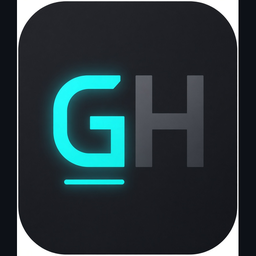
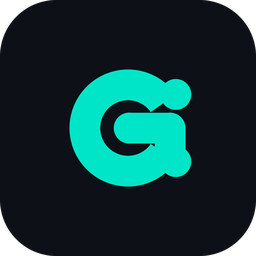
Rebuild brand assets as crisp geometric G mark.
Replace photographic AI lockups with real PNG/SVG: icon, favicon,
horizontal lockup, OG 1200×630, and 50:11 X banner.

diff --git a/website/index.html b/website/index.html
@@ -26,7 +26,8 @@
     <meta property="x:game:image:width" content="1200" />
     <meta property="x:game:image:height" content="264" />
     <meta name="theme-color" content="#0D1117" />
-    <link rel="icon" type="image/png" href="assets/favicon.png" />
+    <link rel="icon" type="image/svg+xml" href="assets/favicon.svg" />
+    <link rel="icon" type="image/png" sizes="32x32" href="assets/favicon-32.png" />
     <link rel="apple-touch-icon" href="assets/apple-touch-icon.png" />
     <link rel="preconnect" href="https://fonts.googleapis.com" />
     <link rel="preconnect" href="https://fonts.gstatic.com" crossorigin />
@@ -41,7 +42,7 @@
       <div class="wrap header-inner">
         <a href="#top" class="brand">
           <span class="brand-mark" aria-hidden="true">
-            <img src="assets/favicon.png" alt="" width="32" height="32" />
+            <img src="assets/favicon-32.png" alt="" width="32" height="32" />
           </span>
           <span>Grok<span class="accent">Hunter</span></span>
           <span class="badge">v1.0.9</span>
@@ -131,7 +132,7 @@
         <div class="grid-fade" aria-hidden="true"></div>
         <div class="wrap hero-grid">
           <div>
-            <img class="hero-logo" src="assets/logo-horizontal.png" alt="GrokHunter Rootless" width="420" height="102" />
+            <img class="hero-logo" src="assets/logo-horizontal.png" alt="GrokHunter" width="420" height="117" />
             <div class="chips">
               <span class="chip chip-brand">
                 <svg class="icon-sm" viewBox="0 0 24 24" fill="none" stroke="currentColor" stroke-width="2">

diff --git a/website/styles.css b/website/styles.css
@@ -136,8 +136,8 @@ button {
   overflow: hidden;
   padding: 0;
   border-radius: var(--radius-sm);
-  border: 1px solid var(--border-strong);
-  background: #000;
+  border: none;
+  background: transparent;
   color: var(--accent);
 }
 

diff --git a/branding/README.md b/branding/README.md
@@ -1,13 +1,17 @@
 # GrokHunter brand assets
 
 Canonical artwork for README, GitHub Pages, and the XFCE menu.
+Drawn as real PNG/SVG (not photographic AI lockups).
 
 | File | Use |
 |------|-----|
-| `icon.png` | 512×512 app / GitHub avatar |
+| `mark.svg` / `favicon.svg` | Source monogram |
+| `icon.png` | 512×512 app / GitHub / README mark |
 | `icon-256.png` | XFCE / freedesktop menu (`Icon=grokhunter`) |
-| `favicon.png` | Site tab icon (cyan GH monogram) |
-| `logo-horizontal.png` | README + site hero lockup |
+| `favicon.png` | Large tab/app icon |
+| `favicon-32.png` | Site tab + header (32×32) |
+| `apple-touch-icon.png` | 180×180 home-screen |
+| `logo-horizontal.png` | Site hero lockup (transparent) |
 | `logo-terminal.png` | Docs / CLI-adjacent lockup |
 | `og.jpg` | Open Graph / Twitter link preview (1200×630) |
 | `social-preview.jpg` | Same art as `og.jpg` (alias) |

diff --git a/CHANGELOG.md b/CHANGELOG.md
@@ -9,6 +9,7 @@
 - Site palette aligned to brand charcoal `#0D1117` / cyan `#00E5C7` (no leftover phosphor green).
 - New share cards: `og.jpg` 1200×630 (link preview) and `x-banner.jpg` 1200×264 (X feed).
 - README hero uses the GH icon + charcoal/cyan shields (drop the noisy lockup).
+- Rebuilt all raster brand assets from a geometric G mark (crisp PNG/SVG, no photographic lockups).
 
 ### Lab specialists
 
